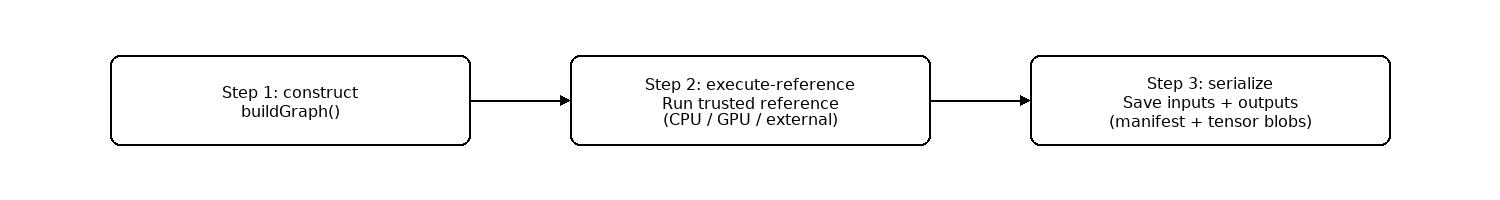
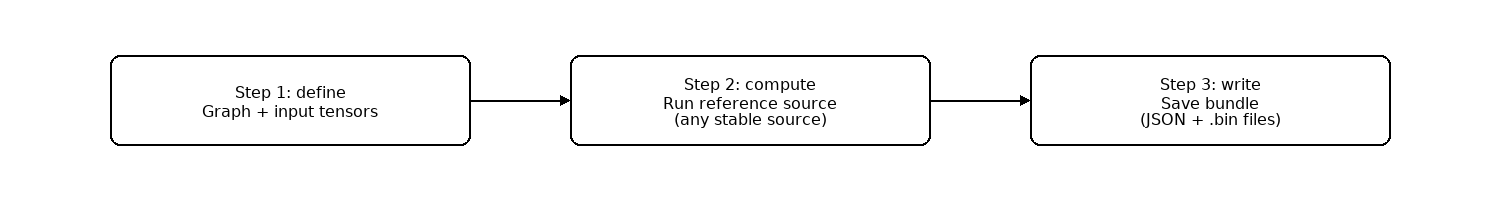
[hipDNN] RFC 0010: regenerate pipeline diagrams, align text step counts
- Generation diagram: 3 boxes (define, compute, write) — removes
  buildGraph() and "manifest" references
- Validation diagram: 3 steps (load, execute, compare) + PASS/FAIL —
  removes fingerprint diamond and 7-step flow
- Text step counts now match diagram box counts (3+3)

diff --git a/projects/hipdnn/docs/rfcs/0010_GoldenReferenceValidation.md b/projects/hipdnn/docs/rfcs/0010_GoldenReferenceValidation.md
@@ -70,16 +70,14 @@ This is the architectural difference from a test-as-code approach: the graph def
 Two pipelines operate on the same golden data format:
 
 **Generation (run once, any tool):**
-1. Define the graph (tensors, operation, parameters)
-2. Create input tensors (random or from a real workload)
-3. Run a reference source (PyTorch, CPU ref, GPU ref, AITER, AOTriton, etc.) to produce outputs
-4. Write the bundle: `{Name}.json` + `{Name}.tensor{uid}.bin`
+1. Define graph and create input tensors (operation, parameters, random or real-workload inputs)
+2. Run a reference source (PyTorch, CPU ref, GPU ref, AITER, AOTriton, etc.) to produce outputs
+3. Write the bundle: `{Name}.json` + `{Name}.tensor{uid}.bin`
 
 **Validation (C++, every CI run):**
-1. `loadGraphAndTensors(path)` reads JSON + tensor bins into `GraphAndTensorMap`
-2. `extractAndClearOutputTensorData()` separates reference outputs, zeros the output slots
-3. Execute engine under test (CPU ref or GPU plugin)
-4. `validateTensors(referenceOutputs, atol, rtol)` compares engine output to reference
+1. Load bundle from disk into `GraphAndTensorMap`, extract golden outputs
+2. Execute engine under test (CPU ref or GPU plugin)
+3. Compare engine output to golden output — PASS or FAIL
 
 #### Generation Pipeline (runs once, produces golden data)
 